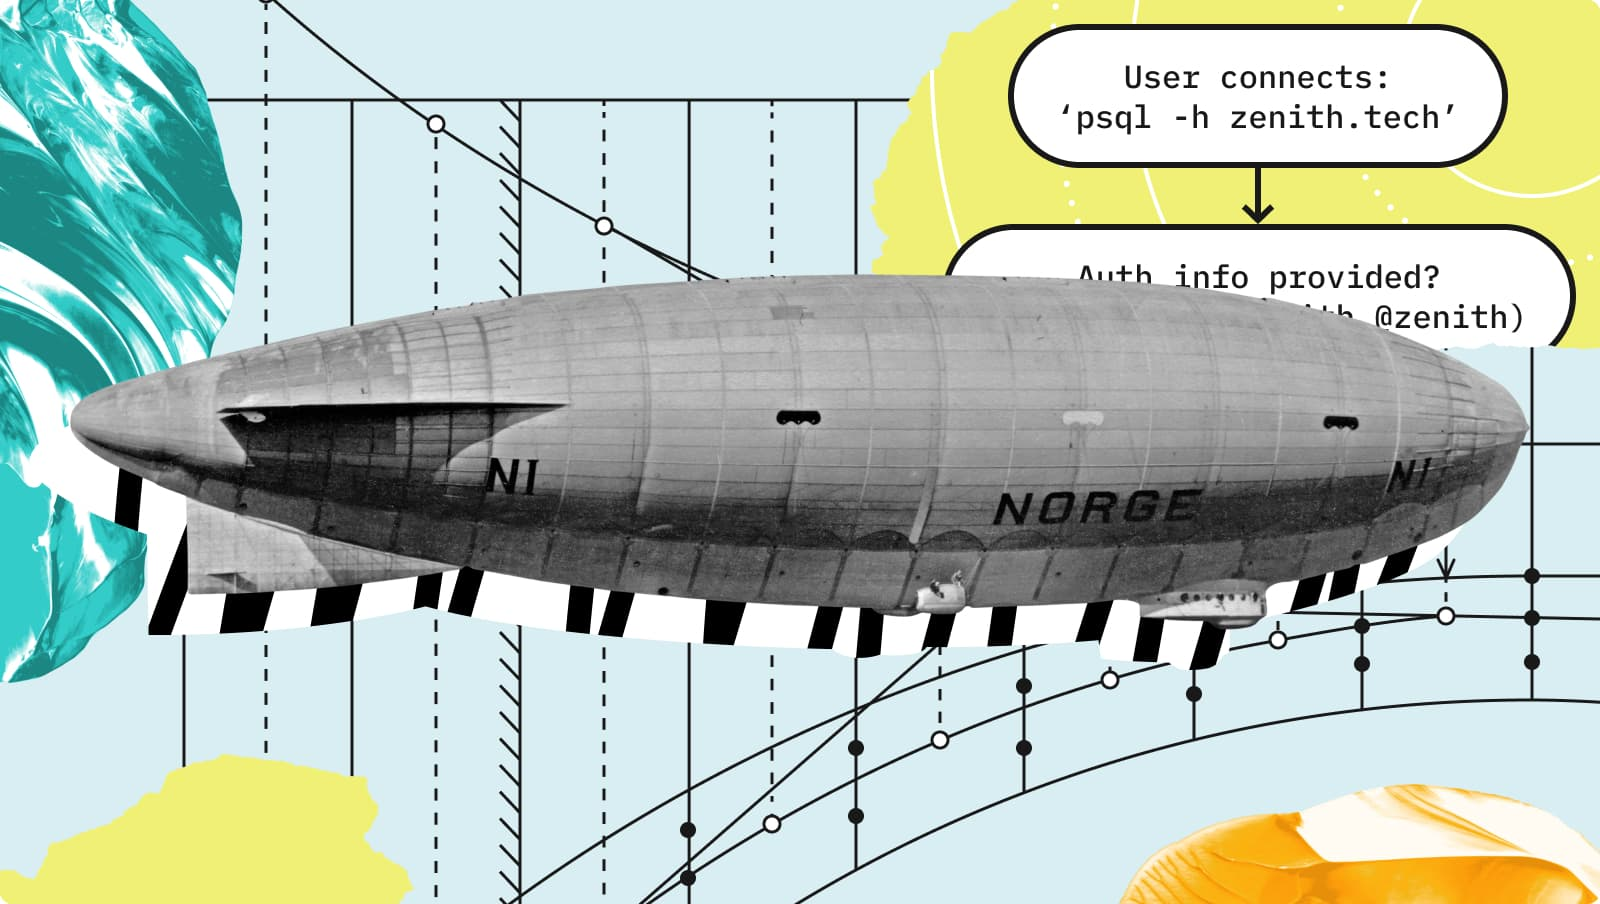
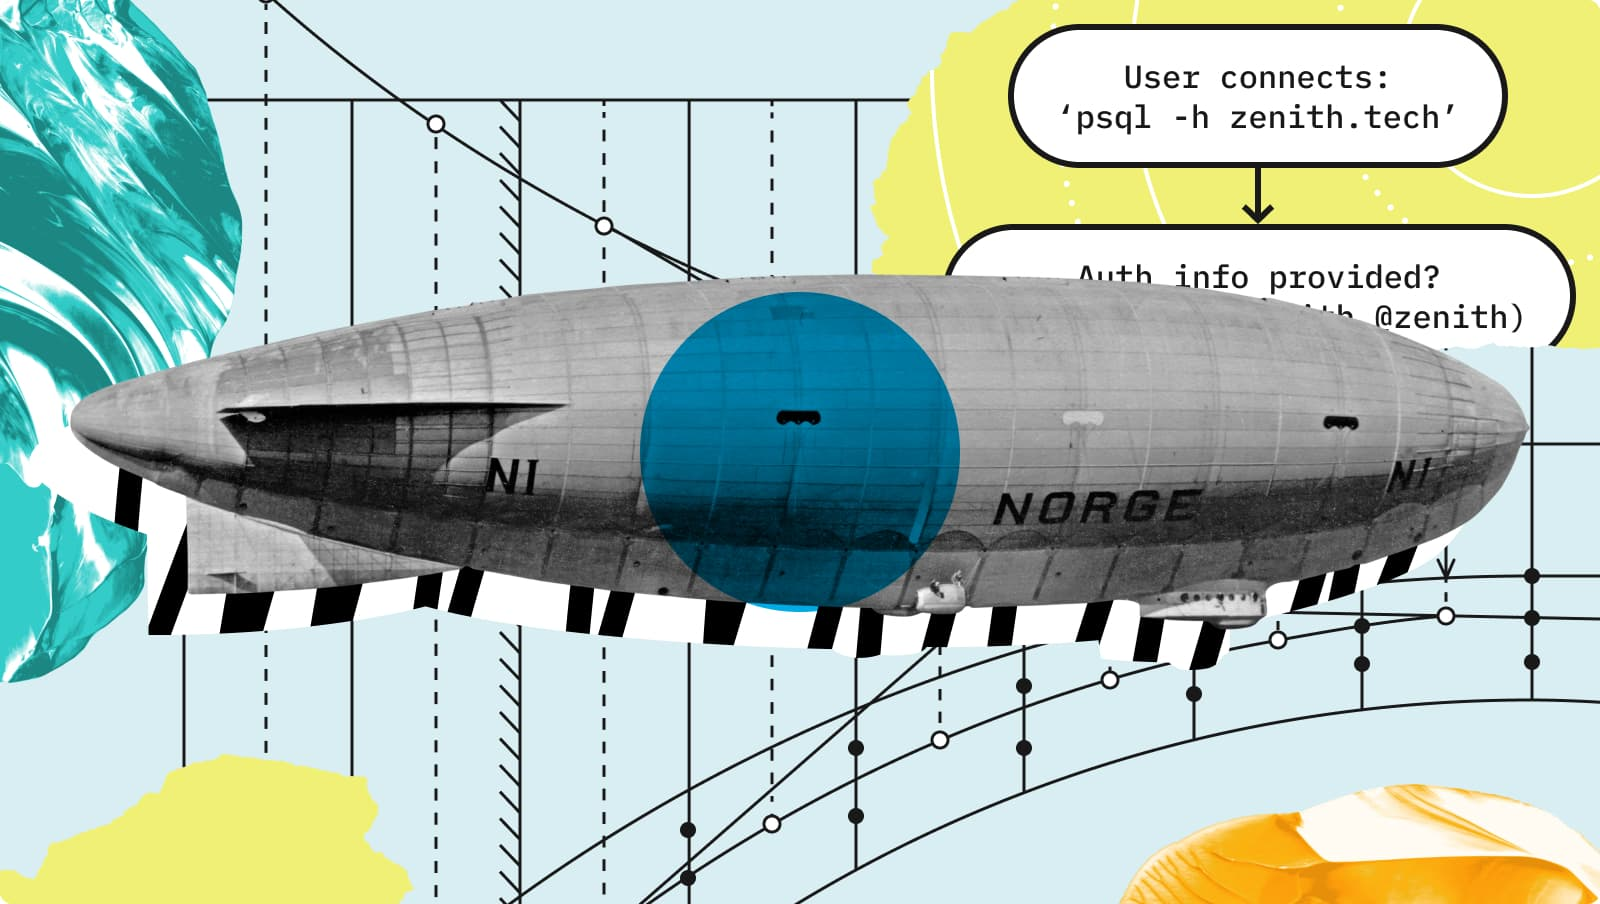
fix: add states to elements

Changed region(s): [[0.375, 0.3097, 0.625, 0.6814]]

diff --git a/src/components/pages/home/cta/cta.jsx b/src/components/pages/home/cta/cta.jsx
@@ -1,41 +1,64 @@
+import clsx from 'clsx';
 import copyToClipboard from 'copy-to-clipboard';
-import React from 'react';
+import React, { useEffect, useState } from 'react';
 
 import Button from 'components/shared/button';
 import Container from 'components/shared/container';
 import Heading from 'components/shared/heading';
 import Link from 'components/shared/link';
 
-const CTA = () => (
-  <section className="text-center bg-black pt-[340px]">
-    <Container>
-      <Heading tag="h2" size="lg" theme="white">
-        Made for Developers
-      </Heading>
-      <p className="mt-5 text-white t-3xl">
-        Just use a single command from CLI to create new Zenith database
-      </p>
-      <div className="relative max-w-[860px] mx-auto before:absolute before:-bottom-3.5 before:-left-3.5 before:w-full before:h-full before:bg-primary-1 before:rounded-full">
-        <div className="relative flex items-center justify-between p-2 mt-8 bg-white border-4 border-black rounded-full pl-9">
-          <span className="font-mono t-3xl">$ psql -h lb.zenith.tech</span>
-          <Button
-            size="sm"
-            theme="secondary"
-            onClick={() => copyToClipboard('psql -h lb.zenith.tech')}
-          >
-            Copy
-          </Button>
+const CTA = () => {
+  const [isCopied, setIsCopied] = useState(false);
+
+  const handleButtonClick = () => {
+    if (!isCopied) {
+      copyToClipboard('psql -h lb.zenith.tech', { onCopy: setIsCopied(true) });
+    }
+  };
+
+  useEffect(() => {
+    if (isCopied) {
+      setTimeout(() => {
+        setIsCopied(false);
+      }, 1500);
+    }
+  }, [isCopied]);
+
+  return (
+    <section className="text-center bg-black pt-[340px]">
+      <Container>
+        <Heading tag="h2" size="lg" theme="white">
+          Made for Developers
+        </Heading>
+        <p className="mt-5 text-white t-3xl">
+          Just use a single command from CLI to create new Zenith database
+        </p>
+        <div className="relative max-w-[860px] mx-auto before:absolute before:-bottom-3.5 before:-left-3.5 before:w-full before:h-full before:bg-primary-1 before:rounded-full">
+          <div className="relative flex items-center justify-between p-2 mt-8 bg-white border-4 border-black rounded-full pl-9">
+            <span className="font-mono t-3xl">$ psql -h lb.zenith.tech</span>
+            <Button className="relative" size="sm" theme="secondary" onClick={handleButtonClick}>
+              <span className={clsx({ 'opacity-0': isCopied })}>Copy</span>
+              <span
+                className={clsx(
+                  'absolute -translate-x-1/2 -translate-y-1/2 top-1/2 left-1/2 opacity-0',
+                  { 'opacity-100': isCopied }
+                )}
+              >
+                Copied!
+              </span>
+            </Button>
+          </div>
         </div>
-      </div>
-      <p className="max-w-[500px] text-white t-xl mt-[56px] mx-auto">
-        Same PostgreSQL command as you used to will get you{' '}
-        <Link to="/" theme="underline-primary-1">
-          a smooth database creation
-        </Link>{' '}
-        experience.
-      </p>
-    </Container>
-  </section>
-);
+        <p className="max-w-[500px] text-white t-xl mt-[56px] mx-auto">
+          Same PostgreSQL command as you used to will get you{' '}
+          <Link to="/" theme="underline-primary-1">
+            a smooth database creation
+          </Link>{' '}
+          experience.
+        </p>
+      </Container>
+    </section>
+  );
+};
 
 export default CTA;

diff --git a/src/components/shared/subscribe/subscribe.jsx b/src/components/shared/subscribe/subscribe.jsx
@@ -40,7 +40,7 @@ const Subscribe = () => (
         </Heading>
         <div className="relative mt-10 ml-[14px] before:absolute before:-bottom-3.5 before:-left-3.5 before:w-full before:h-full before:bg-secondary-2 before:rounded-full">
           <input
-            className="relative block w-[696px] h-24 mt-8 text-black bg-white border-4 border-black rounded-full outline-none t-2xl pl-7 pr-[218px]"
+            className="relative block w-[696px] h-24 mt-8 text-black bg-white border-4 border-black rounded-full outline-none t-2xl pl-7 pr-[218px] placeholder-black"
             type="email"
             placeholder="Your email..."
           />
@@ -52,9 +52,13 @@ const Subscribe = () => (
           <span className="font-bold t-3xl">Join us:</span>
           <ul className="flex space-x-[26px]">
             {links.map(({ icon: Icon, to }, index) => (
-              <li key={index}>
+              <li className="relative" key={index}>
+                <span
+                  className="absolute -bottom-1.5 -left-1.5 w-full h-full bg-secondary-5 rounded-full"
+                  aria-hidden
+                />
                 <Link
-                  className="relative flex items-center justify-center bg-white border-black border-4 rounded-full w-[72px] h-[72px] before:absolute before:-bottom-2.5 before:-left-2.5 before:w-[72px] before:h-[72px] before:bg-secondary-5 before:rounded-full before:z-[-1]"
+                  className="relative flex items-center justify-center bg-white border-black border-4 rounded-full w-[72px] h-[72px] duration-200 transition-transform hover:translate-y-1.5 hover:-translate-x-1.5"
                   to={to}
                 >
                   <Icon />

diff --git a/src/components/pages/home/advantages/advantages.jsx b/src/components/pages/home/advantages/advantages.jsx
@@ -43,11 +43,11 @@ const Advantages = () => (
             aria-hidden
           />
           <button
-            className="absolute -translate-x-1/2 -translate-y-1/2 top-1/2 left-1/2 w-40 h-40 flex items-center justify-center rounded-full before:bg-[#00ace6] before:absolute before:top-0 before:left-0 before:w-full before:h-full before:rounded-full before:mix-blend-multiply"
+            className="absolute flex items-center justify-center w-40 h-40 -translate-x-1/2 -translate-y-1/2 rounded-full top-1/2 left-1/2 group"
             type="button"
           >
             <PlayIcon
-              className="relative rounded-full"
+              className="relative rounded-full transition-transform duration-200 group-hover:scale-[1.1]"
               style={{ boxShadow: '0px 10px 20px rgba(26, 26, 26, 0.4)' }}
             />
           </button>
